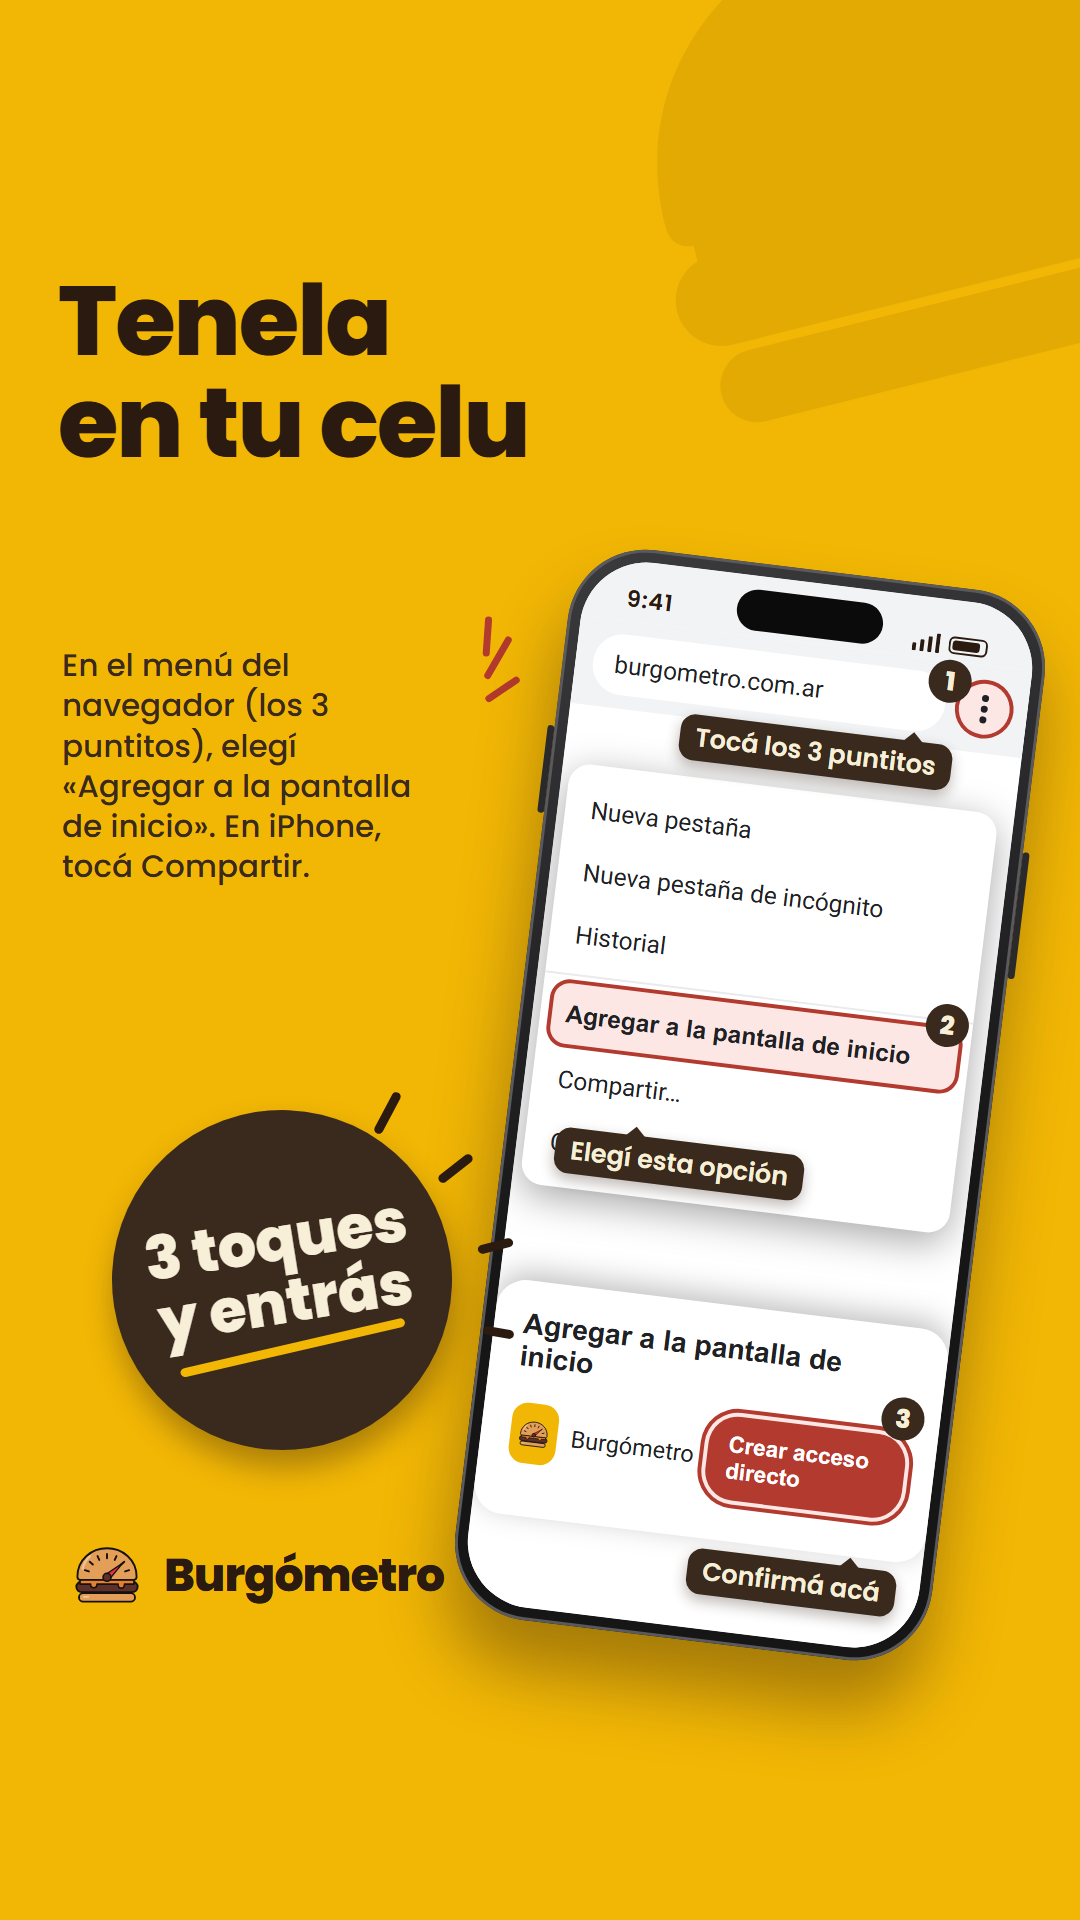
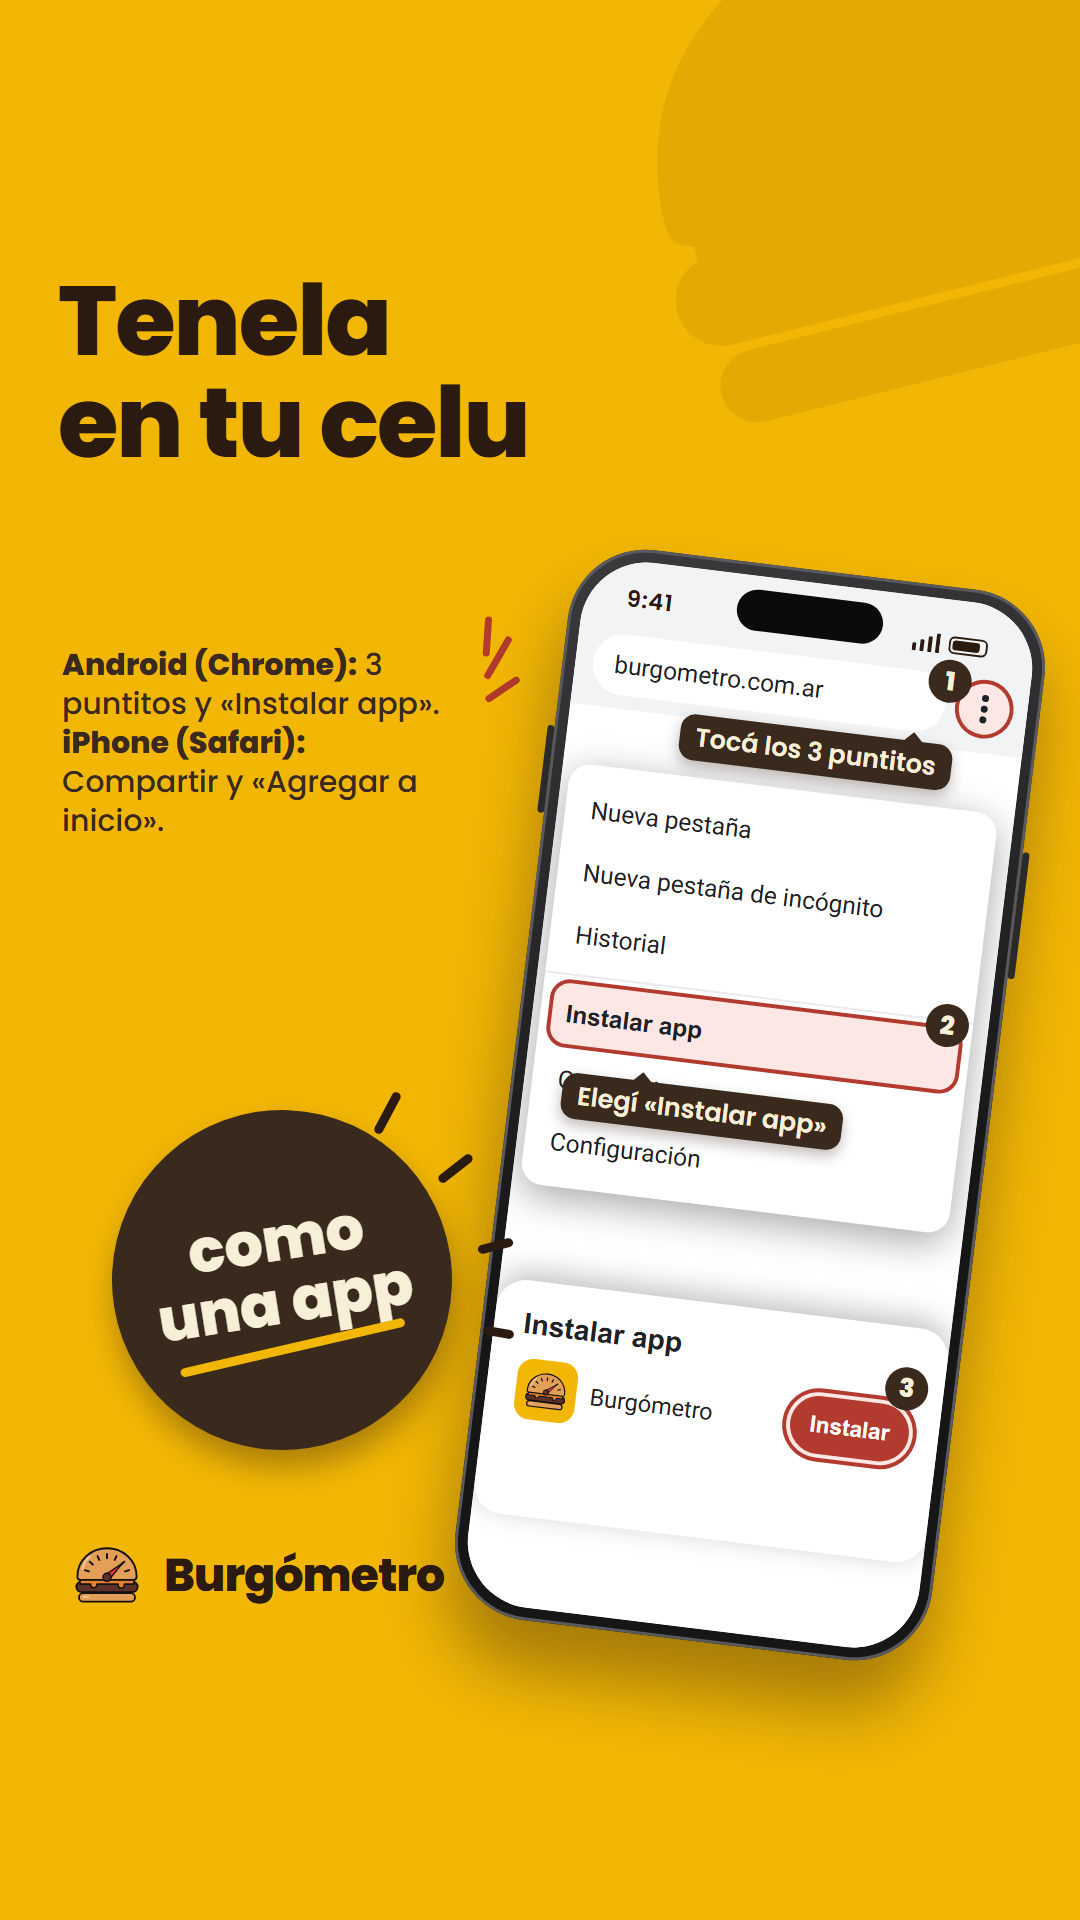
Post de Instagram: lámina de instalar con «Instalar app» (Android) y «Agregar a inicio» (iPhone)
La lámina 3 asume el manifest (#281) ya deployado: no publicar el post antes.

diff --git a/docs/post-ig/README.md b/docs/post-ig/README.md
@@ -7,7 +7,7 @@ Ocho láminas en dos formatos: `laminas/` en 4:5 (1080×1350, el del carrusel de
 |---|---|---|
 | 1 | `laminas/01-portada.png` | Portada, con Explorar |
 | 2 | `laminas/02-sugerir-local.png` | Sugerir un local |
-| 3 | `laminas/03-instalar.png` | Agregar a la pantalla de inicio (ilustración del menú de Chrome) |
+| 3 | `laminas/03-instalar.png` | Instalar la web: Android (Chrome) «Instalar app», iPhone (Safari) «Agregar a inicio» (ilustración del menú de Chrome) |
 | 4 | `laminas/04-recorrido.png` | Armar un recorrido (Tour) |
 | 5 | `laminas/05-buscar-gente.png` | Buscar gente (nombres de ejemplo) |
 | 6 | `laminas/06-avatar.png` | Armar tu hamburguesa |
@@ -25,3 +25,9 @@ Ocho láminas en dos formatos: `laminas/` en 4:5 (1080×1350, el del carrusel de
 
 Reglas del contenido: sin cifras de la web (reseñas, usuarios); el único número es «+1.200 hamburgueserías
 en Buenos Aires y alrededores».
+
+## Antes de publicar
+
+Las láminas 3 asumen que el manifest (#281) ya está deployado: sin él, Chrome en Android solo ofrece
+«Agregar a la pantalla principal», con un ícono común, y no «Instalar app». **No publiques el post antes del deploy del manifest.**
+En iPhone (Safari) «Compartir > Agregar a inicio» ya funciona hoy. Los nombres son los del manifest: la app se llama «Burgómetro».

diff --git a/docs/post-ig/texto-del-post.md b/docs/post-ig/texto-del-post.md
@@ -6,3 +6,5 @@ Armá un recorrido, guardá las que te debés y mirá qué comen otros fanático
 Link en la bio.
 
 #hamburguesas #burgersbuenosaires #hamburgueseriasba #smashburger #buenosaires #gastronomiaba #burgometro
+
+Nota: el post no menciona la instalación en el texto; si se agrega, usar los mismos nombres de la lámina 3 y publicar después del deploy del manifest (#281).
